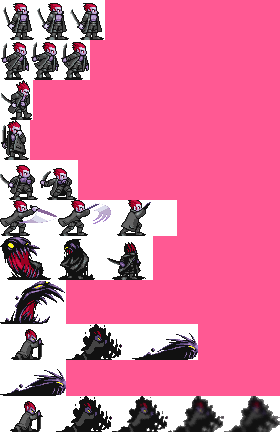
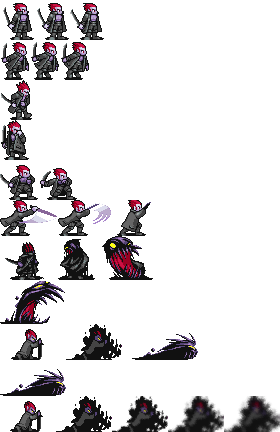
[JOS-71] Edited the boss class to respond to player hits and every few seconds the boss will choose another Action depending on the probablity of the actions and is animated appropreatly.

diff --git a/FYP_FallenHero/DarkDemon.cpp b/FYP_FallenHero/DarkDemon.cpp
@@ -14,6 +14,8 @@ DarkDemon::DarkDemon(b2Body * b, ProjectileManager* pm, bool dir) : m_projectile
 	loadMedia();
 	alineSprite();
 
+	m_animator.playAnimation(m_current_state, true);
+
 	e_body_active = true;
 	e_sword_col = false;
 	e_can_despawn = false;
@@ -34,16 +36,17 @@ void DarkDemon::ChangeState(STATE s) {
 	
 }
 void DarkDemon::loadMedia() {
-	e_texture = "Assets/Game/boss_temp.png";
+	e_texture = "Assets/Game/boss.png";
 	setTexture(ResourceManager<sf::Texture>::instance()->get(e_texture));
 	m_text_size = sf::Vector2u(35, 44);
 	setOrigin(m_text_size.x / 2, m_text_size.y / 2);
+	setScale(1.5, 1.5);
 	
 	//Add all the regular frames
 	addFrames(frame_idle,			0, 0, 3, 35, 40, 1.0f);
 	addFrames(frame_dash,			1, 0, 3, 30, 40, 1.0f);
 	addFrames(frame_hurt,			2, 0, 1, 33, 40, 1.0f);
-	addFrames(frame_recover,		3, 0, 1, 30, 47, 1.0f);
+	addFrames(frame_recover,		3, 0, 1, 30, 40, 1.0f);
 	addFrames(frame_ready,			4, 0, 2, 39, 40, 1.0f);
 	addFrames(frame_attack,			5, 0, 3, 58, 36, 1.0f);
 	addFrames(frame_transform,		6, 0, 3, 51, 44, 1.0f);
@@ -62,8 +65,8 @@ void DarkDemon::loadMedia() {
 	//Attach frame to the animator
 	m_animator.addAnimation(IDLE,				frame_idle,					sf::seconds(1.5f));
 	m_animator.addAnimation(DASH,				frame_dash,					sf::seconds(1.5f));
-	m_animator.addAnimation(HURT,				frame_hurt,					sf::seconds(1.5f));
-	m_animator.addAnimation(RECOVER,			frame_recover,				sf::seconds(1.5f));
+	m_animator.addAnimation(HURT,				frame_hurt,					sf::seconds(1.0f));
+	m_animator.addAnimation(RECOVER,			frame_recover,				sf::seconds(0.5f));
 	m_animator.addAnimation(READY,				frame_ready,				sf::seconds(1.5f));
 	m_animator.addAnimation(ATTACK,				frame_attack,				sf::seconds(1.5f));
 	m_animator.addAnimation(TRANS,				frame_transform,			sf::seconds(1.5f));
@@ -79,11 +82,16 @@ void DarkDemon::loadMedia() {
 	m_death.setBuffer(ResourceManager<sf::SoundBuffer>::instance()->get(s_death));*/
 }
 void DarkDemon::checkAnimation() {
-	/*if (m_previous_state != m_current_state) {
+	if (m_previous_state != m_current_state) {
 		m_previous_state = m_current_state;
-		m_animator.playAnimation(m_current_state);
+		m_animator.playAnimation(m_current_state, false);
 	}
 
+	if (m_current_state == HURT && !m_animator.isPlayingAnimation())
+		m_current_state = RECOVER;
+	else if (m_current_state == RECOVER && !m_animator.isPlayingAnimation())
+		m_current_state = IDLE;
+	/*
 	if(!m_animator.isPlayingAnimation() && (m_current_state == IDLE ||
 			m_current_state == ATTACK || m_current_state == REV_TRANS ||
 			m_current_state == READY))
@@ -120,6 +128,7 @@ void DarkDemon::addFrames(thor::FrameAnimation& animation, int y, int xFirst, in
 }
 
 void DarkDemon::update(FTS fts, Player * p) {
+	takeAction();
 	checkAnimation();
 	alineSprite();
 
@@ -136,13 +145,14 @@ void DarkDemon::update(FTS fts, Player * p) {
 	//cLog::inst()->print("" + std::to_string(m_action));
 }
 void DarkDemon::render(sf::RenderWindow & w, sf::Time frames) {
-	/*m_animator.update(frames);
-	m_animator.animate(*this);*/
+	m_animator.update(frames);
+	m_animator.animate(*this);
 }
 
 void DarkDemon::TakeDamage() {
 	if (!is_hit && m_can_take_damage) {
 		is_hit = true;
+		m_current_state = HURT;
 		e_hp -= 10;
 		if (e_hp <= 0)
 			Die();
@@ -231,22 +241,23 @@ void DarkDemon::takeAction() {
 		switch (m_action) {
 		case Form::MOVE:
 			//Play Dash
-			m_animator.playAnimation(DASH);
+			m_current_state = DASH;
 			break;
 		case Form::ATTACK:
 			//Play Attack
-			m_animator.playAnimation(ATTACK);
+			m_current_state = ATTACK;
 			break;
 		case Form::SHOOT:
 			//Play Shoot
-			m_animator.playAnimation(READY);
+			m_current_state = DASH;
 			break;
 		case Form::TRANS:
 			//Play Transform
-
+			m_current_state = TRANS;
 			break;
 		case Form::TAUNT:
 			//Play Taunt
+			m_current_state = IDLE;
 			break;
 		}
 		break;
@@ -255,13 +266,14 @@ void DarkDemon::takeAction() {
 	case Form::TYPE::SLIME:
 		switch (m_action) {
 		case Form::MOVE:
-			m_animator.playAnimation(DASH);
+			m_current_state = ATTACK_DASH;
 			break;
 		case Form::ATTACK:
 			break;
 		case Form::SHOOT:
 			break;
 		case Form::TRANS:
+			m_current_state = REV_TRANS_DASH;
 			break;
 		case Form::TAUNT:
 			break;
@@ -272,13 +284,15 @@ void DarkDemon::takeAction() {
 	case Form::TYPE::DEMON:
 		switch (m_action) {
 		case Form::MOVE:
-			m_animator.playAnimation(DASH);
+			m_current_state = ATTACK_TRANS;
 			break;
 		case Form::ATTACK:
+			m_current_state = ATTACK_TRANS;
 			break;
 		case Form::SHOOT:
 			break;
 		case Form::TRANS:
+			m_current_state = REV_TRANS;
 			break;
 		case Form::TAUNT:
 			break;

diff --git a/FYP_FallenHero/ContactListener.hpp b/FYP_FallenHero/ContactListener.hpp
@@ -18,6 +18,7 @@
 #include "Cannon.hpp"
 #include "Gem.hpp"
 #include "Projectile.hpp"
+#include "DarkDemon.hpp"
 
 #include "Subject.hpp"
 
@@ -48,6 +49,23 @@ public:
 		void* fixAType = contact->GetFixtureA()->GetUserData();
 		void* fixBType = contact->GetFixtureB()->GetUserData();
 
+		//Player_Sword and Boss
+		if (fixAType == "Player_Sword" && fixBType == "Demon"
+			|| fixAType == "Demon" && fixBType == "Player_Sword") {
+			void* player_data;
+			void* boss_data;
+
+			if (fixAType == "Player_Sword") {
+				player_data = contact->GetFixtureA()->GetBody()->GetUserData();
+				boss_data = contact->GetFixtureB()->GetBody()->GetUserData();
+			}
+			else {
+				boss_data = contact->GetFixtureA()->GetBody()->GetUserData();
+				player_data = contact->GetFixtureB()->GetBody()->GetUserData();
+			}
+
+			static_cast<DarkDemon*>(boss_data)->setCollidingSword(true);
+		}
 
 		//Player and Key
 		if (fixAType == "Player" && fixBType == "Key"
@@ -799,6 +817,24 @@ public:
 		void* fixAType = contact->GetFixtureA()->GetBody()->GetUserData();
 		void* fixBType = contact->GetFixtureB()->GetBody()->GetUserData();
 		
+		//Player_Sword and Boss
+		if (fixAType == "Player_Sword" && fixBType == "Demon"
+			|| fixAType == "Demon" && fixBType == "Player_Sword") {
+			void* player_data;
+			void* boss_data;
+
+			if (fixAType == "Player_Sword") {
+				player_data = contact->GetFixtureA()->GetBody()->GetUserData();
+				boss_data = contact->GetFixtureB()->GetBody()->GetUserData();
+			}
+			else {
+				boss_data = contact->GetFixtureA()->GetBody()->GetUserData();
+				player_data = contact->GetFixtureB()->GetBody()->GetUserData();
+			}
+
+			static_cast<DarkDemon*>(boss_data)->setCollidingSword(false);
+		}
+
 		//Player Sword and Door
 		if (fixAType == "Door" && fixBType == "Player_Sword"
 			|| fixAType == "Player_Sword" && fixBType == "Door") {

diff --git a/FYP_FallenHero/AI.cpp b/FYP_FallenHero/AI.cpp
@@ -8,6 +8,7 @@ DemonAI::DemonAI() {
 
 	m_current_form = human.get();
 	m_current_type = Form::TYPE::HUMAN;
+	m_previous_type = m_current_type;
 }
 DemonAI::~DemonAI() {
 
@@ -17,7 +18,7 @@ void DemonAI::think(Player * p, sf::Vector2f pos, float health) {
 	//Check for change in transition
 	checkForm();
 	if (m_current_type != m_previous_type) {
-		m_current_type = m_previous_type;
+		m_previous_type = m_current_type;
 		m_current_form->reset();
 		switch (m_current_type) {
 		case Form::TYPE::HUMAN:
@@ -36,7 +37,7 @@ void DemonAI::think(Player * p, sf::Vector2f pos, float health) {
 }
 void DemonAI::checkForm() {
 	if (m_current_form->morphin()) {
-		int num;
+  		int num;
 		switch (m_current_form->m_form) {
 		case Form::TYPE::HUMAN:
 			num = rand() % 10;
